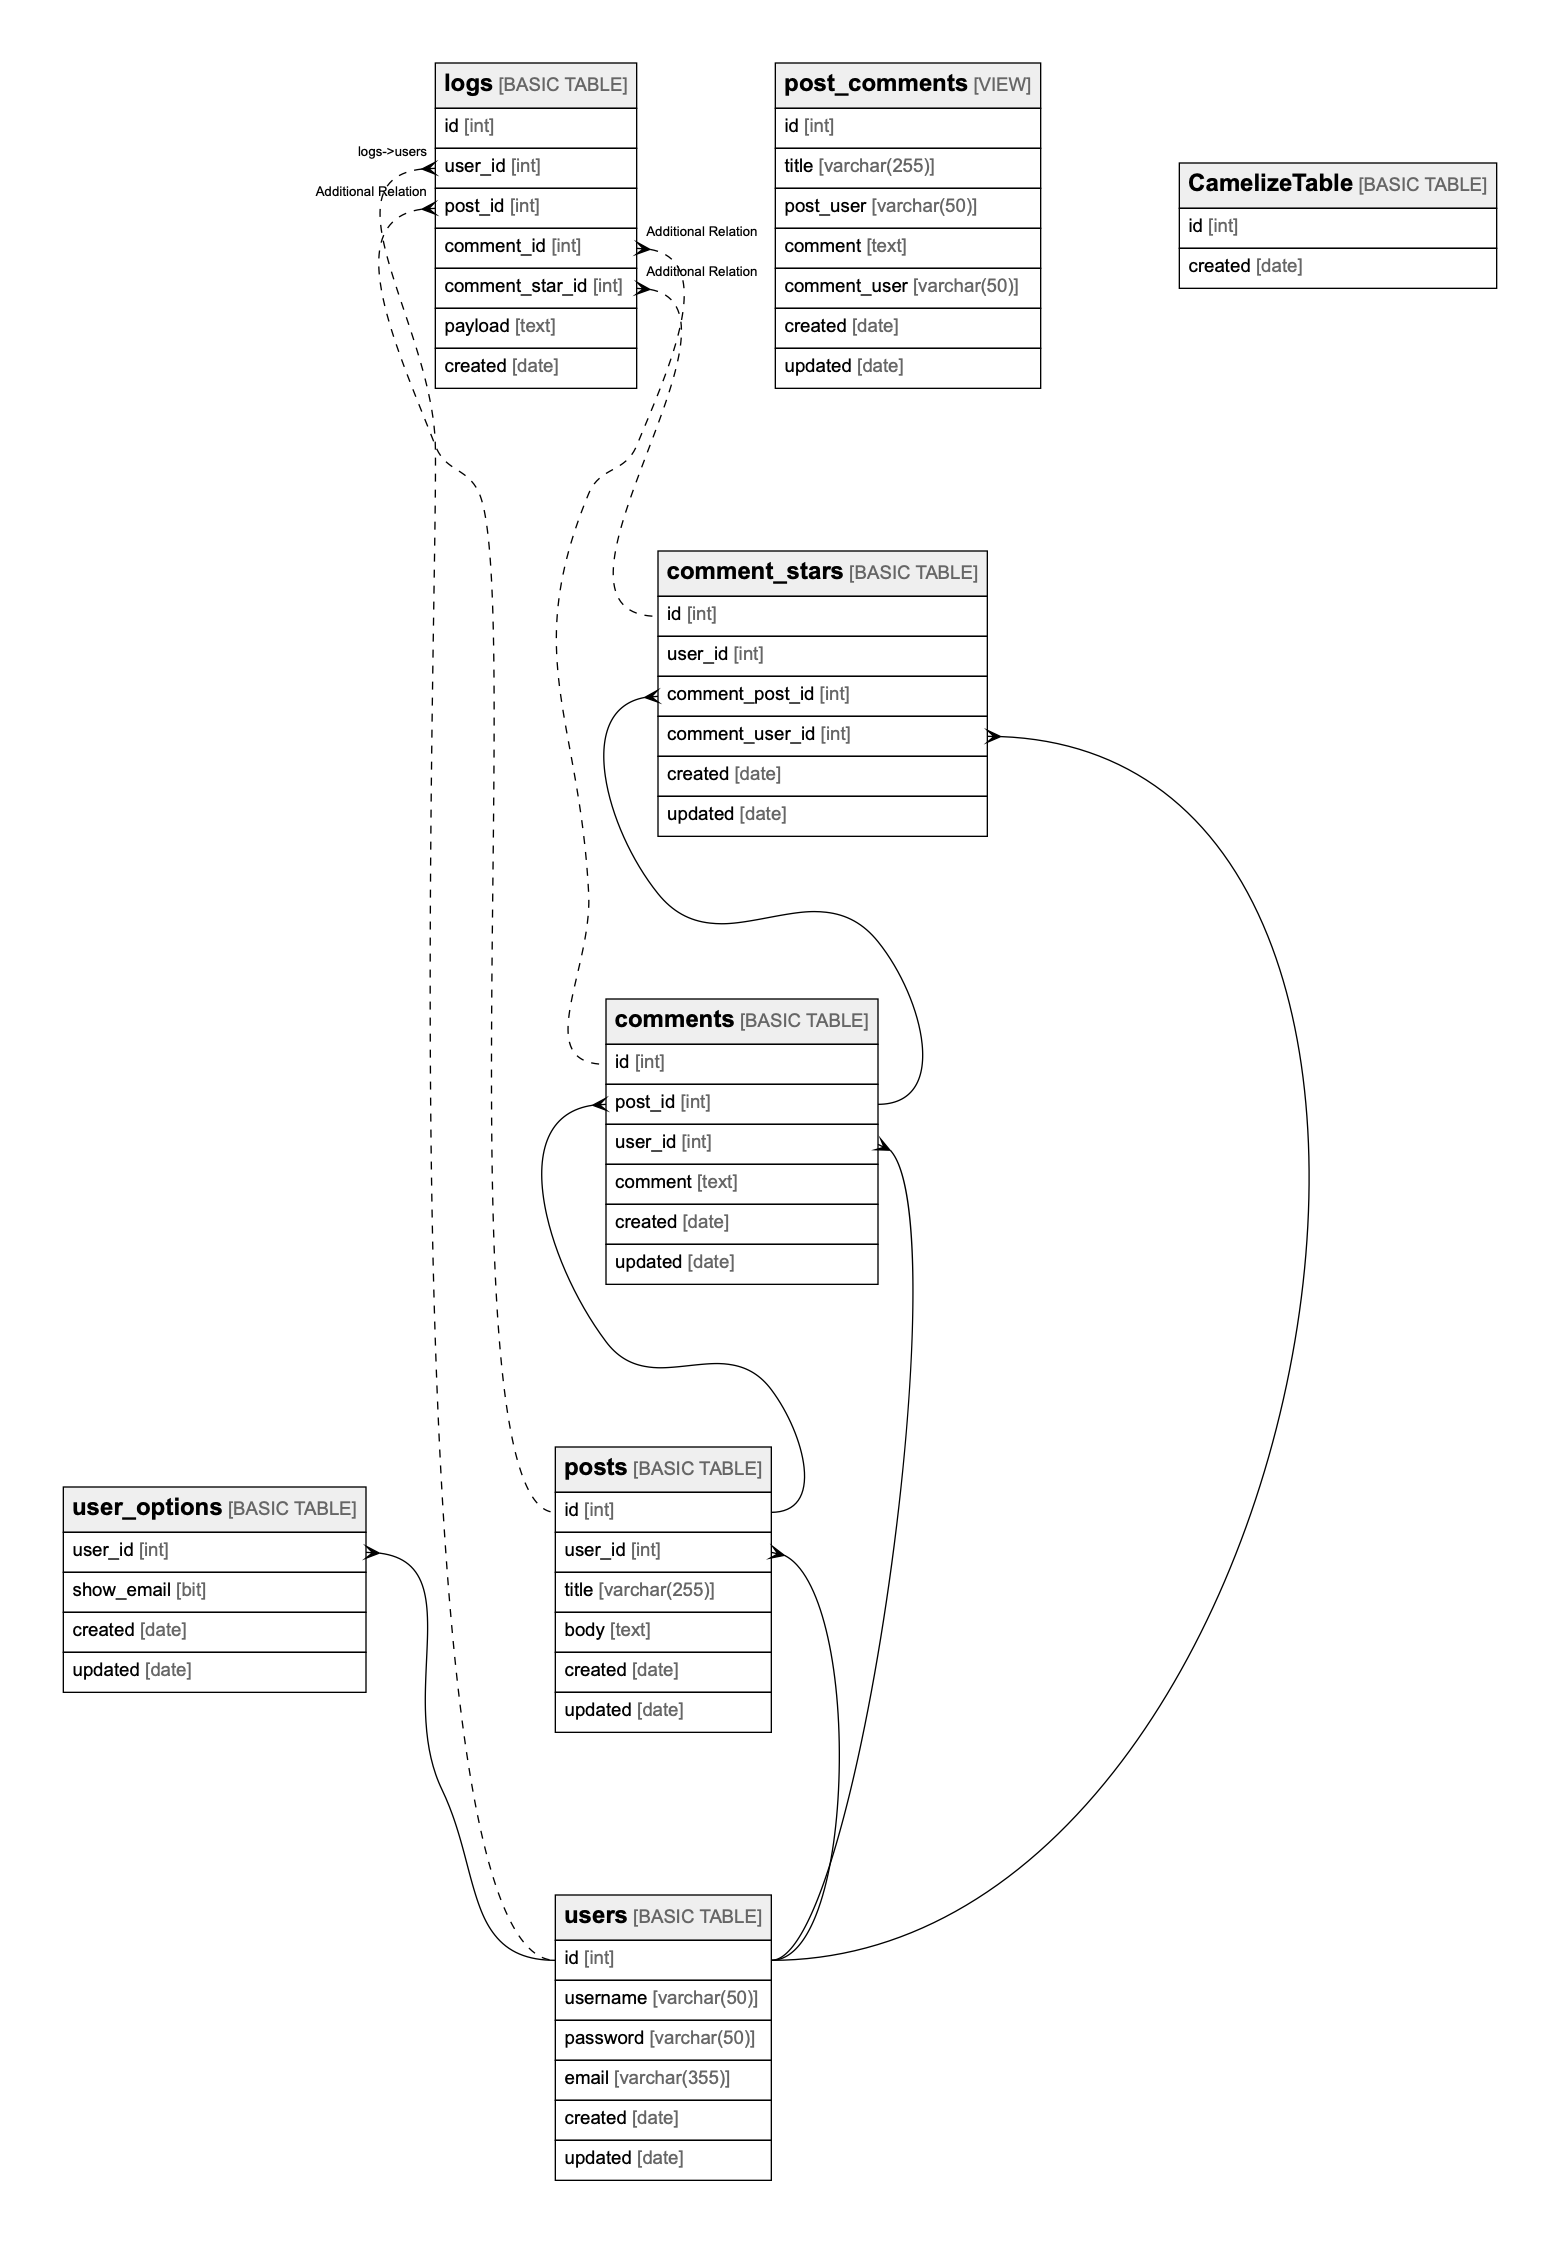
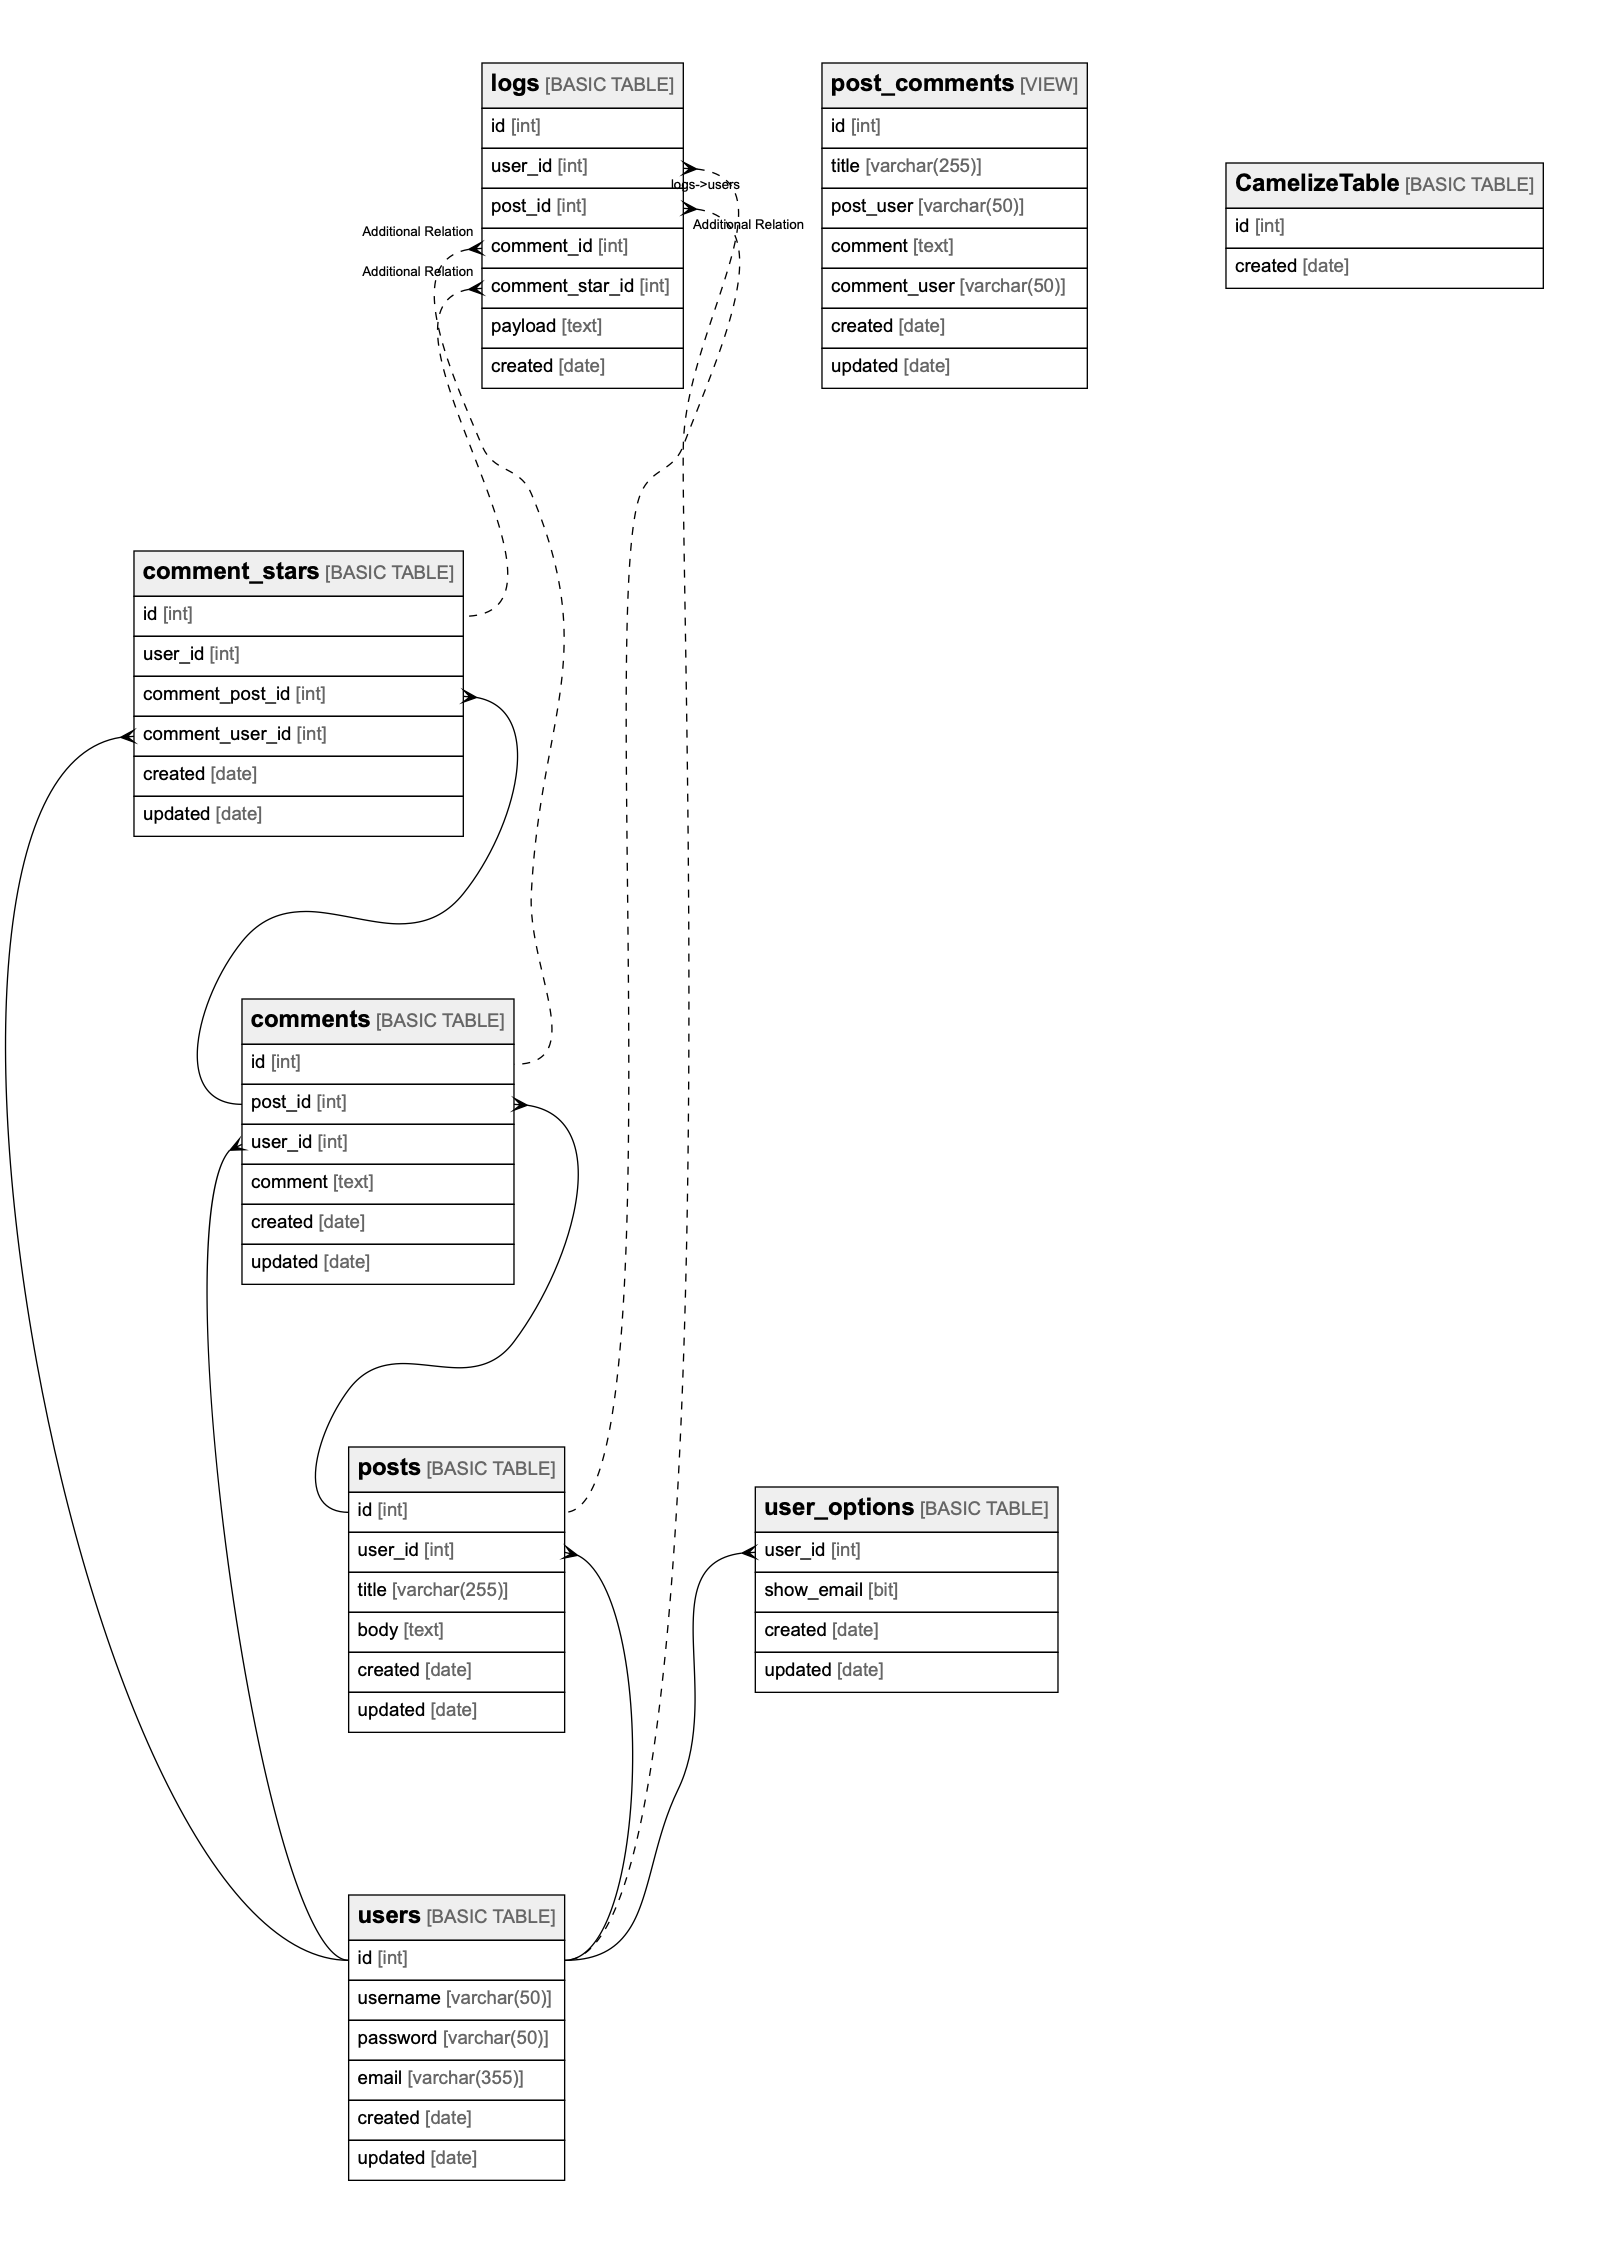
Add test

diff --git a/drivers/mssql/mssql_test.go b/drivers/mssql/mssql_test.go
@@ -1,0 +1,53 @@
+package mssql
+
+import (
+	"database/sql"
+	"os"
+	"testing"
+
+	_ "github.com/denisenkom/go-mssqldb"
+	"github.com/k1LoW/tbls/schema"
+	"github.com/xo/dburl"
+)
+
+var s *schema.Schema
+var db *sql.DB
+
+func TestMain(m *testing.M) {
+	s = &schema.Schema{
+		Name: "testdb",
+	}
+	db, _ = dburl.Open("ms://SA:MSSQLServer-Passw0rd@localhost:11433/testdb")
+	defer db.Close()
+	exit := m.Run()
+	if exit != 0 {
+		os.Exit(exit)
+	}
+}
+
+func TestAnalyzeView(t *testing.T) {
+	driver := NewMssql(db)
+	err := driver.Analyze(s)
+	if err != nil {
+		t.Errorf("%v", err)
+	}
+	view, _ := s.FindTableByName("post_comments")
+	expected := view.Def
+	if expected == "" {
+		t.Errorf("actual not empty string.")
+	}
+}
+
+func TestInfo(t *testing.T) {
+	driver := NewMssql(db)
+	d, err := driver.Info()
+	if err != nil {
+		t.Errorf("%v", err)
+	}
+	if d.Name != "mssql" {
+		t.Errorf("actual %v\nwant %v", d.Name, "mssql")
+	}
+	if d.DatabaseVersion == "" {
+		t.Errorf("actual not empty string.")
+	}
+}

diff --git a/sample/mssql/README.md b/sample/mssql/README.md
@@ -4,14 +4,14 @@
 
 | Name | Columns | Comment | Type |
 | ---- | ------- | ------- | ---- |
-| [users](users.md) | 6 |  | BASIC TABLE |
-| [user_options](user_options.md) | 4 |  | BASIC TABLE |
-| [posts](posts.md) | 6 |  | BASIC TABLE |
-| [comments](comments.md) | 6 |  | BASIC TABLE |
 | [comment_stars](comment_stars.md) | 6 |  | BASIC TABLE |
 | [logs](logs.md) | 7 | audit log table | BASIC TABLE |
 | [post_comments](post_comments.md) | 7 | post and comments View table | VIEW |
 | [CamelizeTable](CamelizeTable.md) | 2 |  | BASIC TABLE |
+| [users](users.md) | 6 |  | BASIC TABLE |
+| [user_options](user_options.md) | 4 |  | BASIC TABLE |
+| [posts](posts.md) | 6 |  | BASIC TABLE |
+| [comments](comments.md) | 6 |  | BASIC TABLE |
 
 ## Relations
 

diff --git a/sample/mssql/users.md b/sample/mssql/users.md
@@ -6,7 +6,7 @@
 
 | Name | Type | Default | Nullable | Children | Parents | Comment |
 | ---- | ---- | ------- | -------- | -------- | ------- | ------- |
-| id | int |  | false | [user_options](user_options.md) [posts](posts.md) [comments](comments.md) [comment_stars](comment_stars.md) [logs](logs.md) |  |  |
+| id | int |  | false | [comment_stars](comment_stars.md) [user_options](user_options.md) [posts](posts.md) [comments](comments.md) [logs](logs.md) |  |  |
 | username | varchar(50) |  | false |  |  |  |
 | password | varchar(50) |  | false |  |  |  |
 | email | varchar(355) |  | false |  |  |  |
